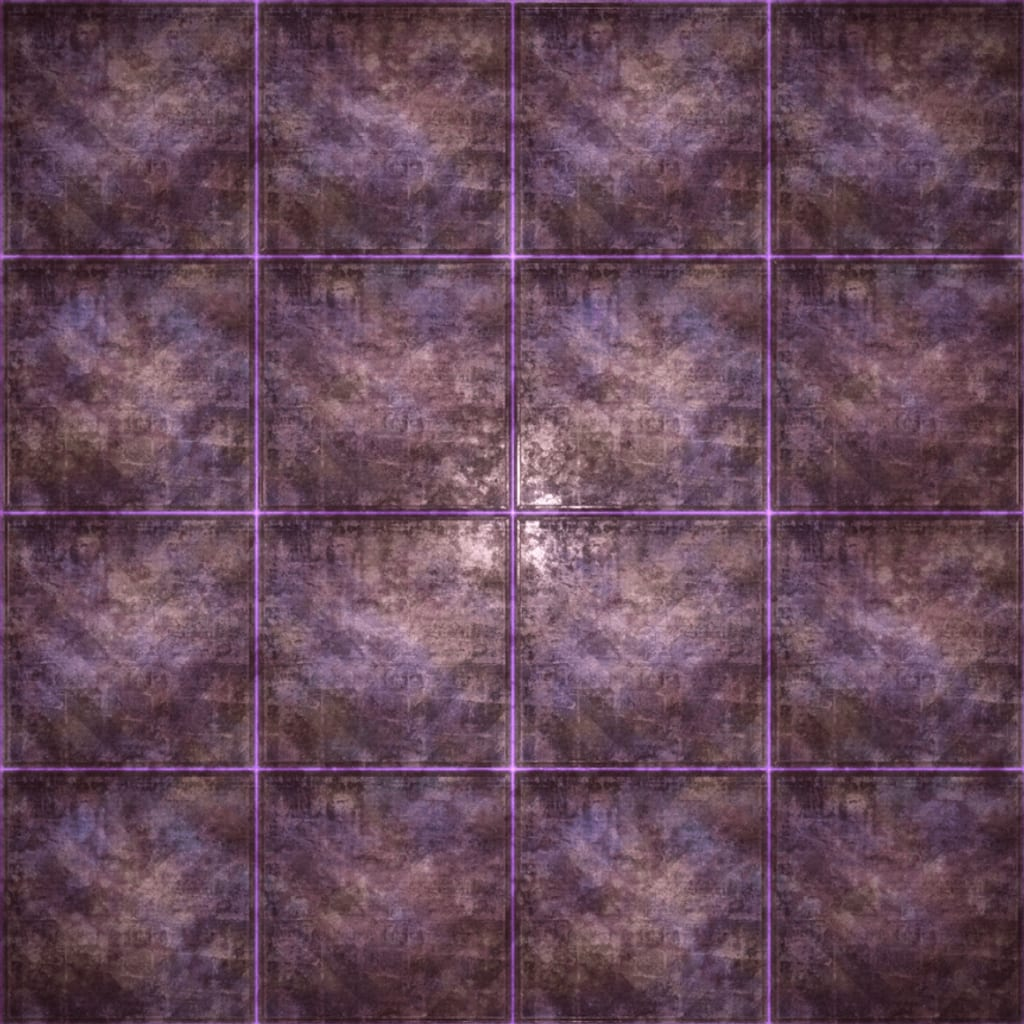
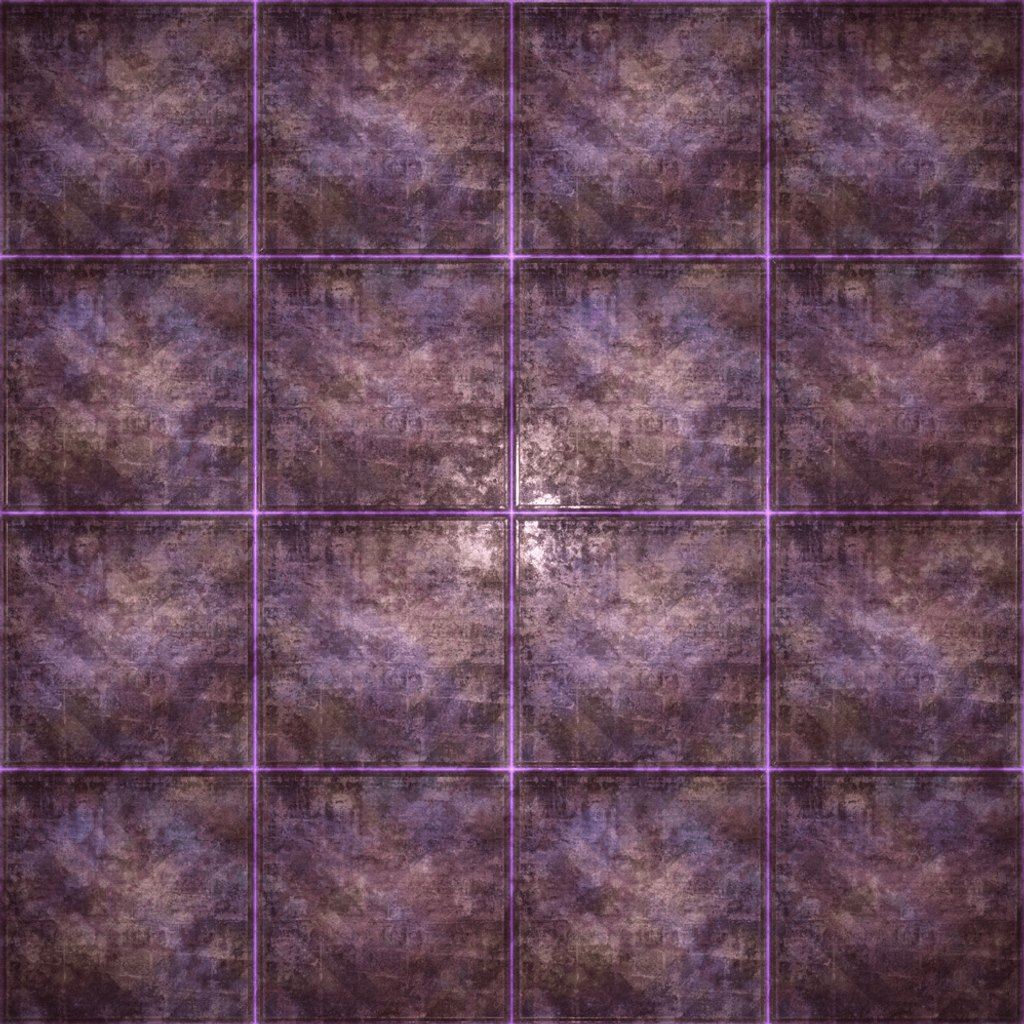
M9S wears the real floor and the game's own waymarks
The arena under the diagram is now the arena, cut from RaidPlan's map of the
fight rather than from a screenshot. The crop is not eyeballed: the floor draws
its own purple grid, so scanning the image for purple finds five vertical lines
and five horizontal, and the outermost of each is the wall to the pixel.

That crop settled an open question. The floor's grid lands exactly on 0 and ±5
in arena units, which means each of the four tiles is ten yards and half the
floor is twenty -- so `radius: 20` was right, and the pasted waymark preset has
been landing where the game puts it. A guess is now a measurement.

The eight waymarks are the game's own glyphs and the seats wear their role
badge, so MT and ST are one picture, as they are in the game.

Two things had to shrink to make room. The boss marker was sized for the old
large player markers and now swallowed the middle tile, hiding the people
standing on it -- which on this fight is most of them; it is a landmark, not
the subject. And a seat's name used to sit below its marker, which put it on
top of the boss for anybody standing north of centre. It now sits on the far
side from the middle, because away from the centre is empty floor by
definition.

diff --git a/components/guides/Arena.tsx b/components/guides/Arena.tsx
@@ -37,6 +37,11 @@ const WAYMARK_COLOR: Record<string, string> = {
 
 /** Maths coordinates in, screen coordinates out: y points up for the author. */
 const sy = (y: number) => -y;
+/** A unit vector pointing from the middle of the floor towards a spot. */
+const away = (at: Spot) => {
+  const d = Math.hypot(at.x, at.y);
+  return d < 0.5 ? { x: 0, y: -1 } : { x: at.x / d, y: at.y / d };
+};
 /** A heading in degrees clockwise from north, as a unit vector in author space. */
 const dir = (deg: number) => {
   const r = (deg * Math.PI) / 180;
@@ -226,13 +231,16 @@ export default function Arena(
         </g>
       ))}
 
+      {/* Bigger than a player and no bigger than that. The boss is a landmark,
+          not the subject: a marker that swallows the middle tile hides the
+          people standing on it, which on this fight is most of them. */}
       {boss && (
         <g>
-          <circle cx={boss.x} cy={sy(boss.y)} r={1.5}
-                  className="fill-surface stroke-ink/70" strokeWidth={0.16} />
+          <circle cx={boss.x} cy={sy(boss.y)} r={1.0}
+                  className="fill-surface stroke-ink/70" strokeWidth={0.13} />
           <text x={boss.x} y={sy(boss.y)} textAnchor="middle" dominantBaseline="central"
-                className="fill-ink" fontSize={1.1} fontWeight={700}>B</text>
-          <Pic src={icons.boss} at={boss} size={3.4} />
+                className="fill-ink" fontSize={0.85} fontWeight={700}>B</text>
+          <Pic src={icons.boss} at={boss} size={2.2} />
         </g>
       )}
 
@@ -244,9 +252,13 @@ export default function Arena(
                     fill={`${color}${m.you ? "55" : "22"}`}
                     stroke={color} strokeWidth={m.you ? 0.18 : 0.11} />
             <Pic src={icons.slots?.[m.slot]} at={m.at} size={m.you ? 1.7 : 1.3} />
-            {/* The seat's name on the marker, so a diagram of eight people can be
-                read without counting colours. */}
-            <text x={m.at.x} y={sy(m.at.y - (m.you ? 1.25 : 1.0))}
+            {/* The seat's name, put on the far side from the middle.
+                The middle is where the boss stands and where a party converges,
+                so a label that always sits below its marker is a label that
+                lands on the boss for anybody standing north of it. Away from
+                the centre is empty floor by definition. */}
+            <text x={m.at.x + away(m.at).x * (m.you ? 1.3 : 1.05)}
+                  y={sy(m.at.y + away(m.at).y * (m.you ? 1.3 : 1.05))}
                   textAnchor="middle" dominantBaseline="central"
                   fill={color} fontSize={m.you ? 0.8 : 0.66} fontWeight={600}>
               {m.slot}

diff --git a/public/guides/m9s/README.md b/public/guides/m9s/README.md
@@ -1,19 +1,37 @@
 # M9S artwork
 
-`arena.jpg` — the floor, seen from above, cropped square to the playable area.
+`arena.jpg` — the floor of Vamp Fatale's arena, seen from above, cropped square
+to the playable area.
+
+It comes from RaidPlan, fetched by `pipeline/fetch_raidplan.py` into
+`public/guides/raidplan/raid/ff.aac3/map/01.m9-main.jpg` (2000×1126) and cut to
+the arena with:
+
+    sharp(src).extract({ left: 502, top: 64, width: 998, height: 998 })
+              .resize(1024, 1024)
+
+Those numbers are not eyeballed. The arena draws its own purple grid, and
+scanning that image for purple finds five vertical lines at x = 502, 750, 1000,
+1250, 1499 and five horizontal at y = 64, 313, 563, 813, 1062 — the outline and
+the three cuts of a 4×4 floor. The outermost of each is the edge, to the pixel.
 
 Crop to the floor and nothing else: the diagram draws it edge to edge, so any
 wall or darkness left around the outside shrinks the arena inside the frame and
-every coordinate lands slightly wrong. Around 1000×1000 is plenty; it is drawn
-at half opacity under the diagram, so detail past that is spent on nothing.
+every coordinate lands slightly wrong. It is drawn at half opacity under the
+diagram, so detail past about 1000×1000 is spent on nothing.
+
+That crop is also what confirms `radius: 20` in `lib/guides/m9s.ts`: the floor's
+own grid lines land exactly on 0 and ±5 in arena units, so the four tiles are
+ten yards each and half the floor is twenty. Which is the number that puts a
+pasted waymark preset in the right place.
 
 Missing is fine. The arena falls back to a plain square with its grid, and the
 mechanics are coordinates that never needed the picture.
 
 Clips go here too, one per mechanic, named after its id:
 
-    hardcore.mp4    ether-letting.mp4    bat-deathmatch.mp4
+    hardcore.mp4    aetherletting.mp4    undead-deathmatch.mp4
 
 Six seconds, one mechanic, no sound, MP4 or WebM — never GIF, which is ten to
-thirty times the size for the same few seconds. Then add `clip:
-"/guides/m9s/hardcore.mp4"` to that mechanic in `lib/guides/m9s.ts`.
+thirty times the size for the same few seconds. Then add
+`clip: "/guides/m9s/hardcore.mp4"` to that mechanic in `lib/guides/m9s.ts`.

diff --git a/public/guides/icons/README.md b/public/guides/icons/README.md
@@ -10,7 +10,27 @@ absent, slow or misspelt leaves a diagram that still reads.
     MT.png ST.png H1.png H2.png D1.png D2.png D3.png D4.png  party slots
 
 Square, transparent background, around 128px. They are drawn small — a waymark
-is about a tenth of the arena — so detail past that is spent on nothing.
+is about a twentieth of the arena — so detail past that is spent on nothing.
 
 A guide can override any of them through `arena.icons` if one fight needs its
 own set.
+
+## What is here now
+
+Fetched from RaidPlan by `pipeline/fetch_raidplan.py` and resized to 128px:
+
+    A B C D 1 2 3 4   game/ffxiv/mark/way_{a,b,c,d,1,2,3,4}.png
+    boss              game/ffxiv/enemy/large.png
+    MT ST             game/ffxiv/job/role_tank.png
+    H1 H2             game/ffxiv/job/role_healer.png
+    D1 D2             game/ffxiv/job/role_melee.png
+    D3                game/ffxiv/job/role_ranged.png
+    D4                game/ffxiv/job/rmage.png
+
+The waymarks are the game's own glyphs, so a diagram shows the same shape
+somebody is looking at on the floor. The seats take their role badge rather
+than a job icon, which means MT and ST are the same picture — as they are in
+the game. What tells them apart is the seat's name, drawn beside the marker on
+the far side from the middle of the arena.
+
+The art is Square Enix's, from FFXIV. See `public/guides/raidplan/SOURCE.json`.
